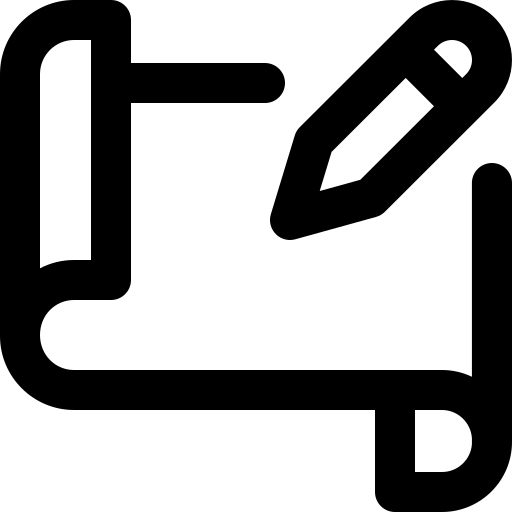
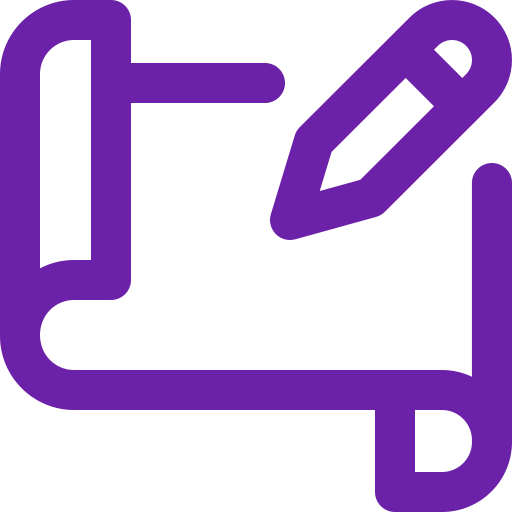
portfolio

diff --git a/pages/skills.js b/pages/skills.js
@@ -1,7 +1,115 @@
-export default function Skills(){
-    return(
-        <div>
-            <h1>This is Skills</h1>
+import Image from 'next/image'
+export default function Skills() {
+    return (
+        <div className='bg-slate-100'>
+            <div className=' pt-10 font-body flex justify-center'>
+                <div className='w-[90vw] md:w-[72vw]'>
+                    <div className='flex flex-col items-center'>
+                        <h1 className='mb-6 text-3xl font-semibold'>Skills</h1>
+                        <p className='font-light mb-6'>Tools I have worked with.</p>
+                    </div>
+                    <div className='grid grid-cols-2 gap-4 md:grid-cols-5 md:gap-4'>
+                        <div className='bg-white rounded-xl p-5 border-solid border border-purple-300 flex flex-col items-center'>
+                            <Image src="/bootstrap.png" alt="bootstrap" className='object-contain' height={50} width={50} />
+                            <div className='mt-4'>Bootstrap</div>
+                        </div>
+                        <div className='bg-white rounded-xl p-5  border-solid border border-purple-300 flex flex-col items-center'>
+                            <Image src="/css-3.png" alt="css3" className='object-contain' height={50} width={50} />
+                            <div className='mt-4'>Css3</div>
+                        </div>
+                        <div className='bg-white rounded-xl p-5  border-solid border border-purple-300 flex flex-col items-center'>
+                            <Image src="/docker.png" alt="docker" className='object-contain' height={50} width={50} />
+                            <div className='mt-4'>Docker</div>
+                        </div>
+                        <div className='bg-white rounded-xl p-5 border-solid border border-purple-300 flex flex-col items-center'>
+                            <Image src="/figma.png" alt="figma" className='object-contain' height={50} width={50} />
+                            <div className='mt-4'>Figma</div>
+                        </div>
+                        <div className='bg-white rounded-xl p-5 border-solid border border-purple-300 flex flex-col items-center'>
+                            <Image src="/git.png" alt="git" className='object-contain' height={50} width={50} />
+                            <div className='mt-4'>Git</div>
+                        </div>
+                        <div className='bg-white rounded-xl p-5 border-solid border border-purple-300 flex flex-col items-center'>
+                            <Image src="/github.png" alt="github" height={50} width={50} />
+                            <div className='mt-4'>Github</div>
+                        </div>
+                        <div className='bg-white rounded-xl p-5  border-solid border border-purple-300 flex flex-col items-center'>
+                            <Image src="/gitlab.jpeg" alt="gitlab" height={50} width={50} />
+                            <div className='mt-4'>Gitlab</div>
+                        </div>
+                        <div className='bg-white rounded-xl p-5  border-solid border border-purple-300 flex flex-col items-center'>
+                            <Image src="/heroku.png" alt="heroku" height={50} width={50} />
+                            <div className='mt-4'>BootStrap</div>
+                        </div>
+                        <div className='bg-white rounded-xl p-5 border-solid border border-purple-300 flex flex-col items-center'>
+                            <Image src="/java.png" alt="java" height={50} width={50} />
+                            <div className='mt-4'>Java</div>
+                        </div>
+                        <div className='bg-white rounded-xl p-5  border-solid border border-purple-300 flex flex-col items-center'>
+                            <Image src="/js.png" alt="js" height={50} width={50} />
+                            <div className='mt-4'>Javascript</div>
+                        </div>
+                        <div className='bg-white rounded-xl p-5  border-solid border border-purple-300 flex flex-col items-center'>
+                            <Image src="/mysql.png" alt="mysql" height={50} width={50} />
+                            <div className='mt-4'>MySql</div>
+                        </div>
+                        <div className='bg-white rounded-xl p-5 border-solid border border-purple-300 flex flex-col items-center'>
+                            <Image src="/netlify.png" alt="netlify" height={50} width={50} />
+                            <div className='mt-4'>Netlify</div>
+                        </div>
+                        <div className='bg-white rounded-xl p-5  border-solid border border-purple-300 flex flex-col items-center'>
+                            <Image src="/nextjs.png" alt="nextjs" height={50} width={50} />
+                            <div className='mt-4'>Next</div>
+                        </div>
+                        <div className='bg-white rounded-xl p-5 border-solid border border-purple-300 flex flex-col items-center'>
+                            <Image src="/react.png" alt="react" height={50} width={50} />
+                            <div className='mt-4'>React</div>
+                        </div>
+                        <div className='bg-white rounded-xl p-5  border-solid border border-purple-300 flex flex-col items-center' flex flex-col items-center>
+                            <Image src="/vuejs.png" alt="vuejs" height={50} width={50} />
+                            <div className='mt-4'>Vue</div>
+                        </div>
+                    </div>
+
+                    <div className='flex justify-center mt-10 mb-10 text-xl font-semibold'>
+                        <div>For something more tangible, take a look at my projects.</div>
+                    </div>
+                </div>
+
+            </div>
+            <div className='bg-purple-300 pt-1 pb-5'>
+                <div className='flex justify-center mt-5 mb-5'>
+                    <div className='text-3xl font-semibold'> What That Means</div>
+                </div>
+                <div className='flex justify-center'>
+                <div className='w-[90vw] grid md:grid-cols-2 gap-3'>
+                    <div>
+                        <div className='bg-white rounded-md p-3 text-center'>Enjoy using regular CSS, along with frameworks TailWind and Bootstrap.</div>
+                    </div>
+                    <div>
+                        <div className='bg-white rounded-md p-3 text-center'>Knows how to filter data on a template, JavaScript and queryset level.</div>
+                    </div>
+                    <div>
+                        <div className='bg-white rounded-md p-3 text-center'>Can produce websites, from wireframing, prototyping to deploying production.</div>
+                    </div>
+                    <div>
+                        <div className='bg-white rounded-md p-3 text-center'>Working JavaScript, including React (with Nextjs) and Vue.</div>
+                    </div>
+                    <div>
+                        <div className='bg-white rounded-md p-3 text-center'>I can work with APIs, creating my own and using external ones.</div>
+                    </div>
+                    <div>
+                        <div className='bg-white rounded-md p-3 text-center'>Creates websites with mobile thinking first.</div>
+                    </div>
+                    <div>
+                        <div className='bg-white rounded-md p-3 text-center'>Key knowledge and implementation of CRUD functionality.</div>
+                    </div>
+                    <div>
+                        <div className='bg-white rounded-md p-3 text-center'>Can build back-end authorization with token authentication.</div>
+                    </div>
+                </div>
+                </div>
+            </div>
         </div>
     )
 }

diff --git a/pages/index.js b/pages/index.js
@@ -10,30 +10,30 @@ export default function Home() {
         <meta name="description" content="Generated by create next app" />
         <link rel="icon" href="/favicon.ico" />
       </Head>
-      <div className="bg-slate-100">
-        <div className="">
-          <div>
-            <Image src="/Adewole.jpg" alt="Logo" width={200} height={100} />
+      <div className="bg-slate-100 pt-10 h-screen">
+        <div className="flex flex-col items-center">
+          <div className="mb-4">
+            <Image className="rounded-2xl object-cover" src="/Adewole.jpg" alt="Logo" width={200} height={200} />
           </div>
-          <h2>David Adewole</h2>
-          <p>Developer Portfolio</p>
-          <p>
+          <h2 className="mb-4 text-3xl font-bold">David Adewole</h2>
+          <p className="mb-4 font-thin">Developer Portfolio</p>
+          <p className="font-medium text-lg pl-3 pr-3">
             Hi I&apos;m David. I&apos;m a Nigerian developer who loves to solve
             problems through programming and learning new things.
           </p>
         </div>
-        <div>
+        <div className="flex mt-16 w-4/5 justify-around ml-12 md:ml-24">
           <div>
-            <Image src="/project.png" alt="Logo" width={200} height={100} />
-            <p>Projects</p>
+            <Image className="object-cover" src="/project.png" alt="Logo" width={50} height={50} />
+            <p className="mt-4 text-purple-800 text-lg font-semibold">Projects</p>
           </div>
           <div>
-            <Image src="/github-logo.png" alt="Logo" width={200} height={100} />
-            <p>Github</p>
+            <Image className="object-cover" src="/github.png" alt="Logo" width={50} height={50} />
+            <p className="mt-4 text-purple-800 text-lg font-semibold">Github</p>
           </div>
           <div>
-            <Image src="/skills.png" alt="Logo" width={200} height={100} />
-            <p>Skills</p>
+            <Image className="object-cover"  src="/skills.png" alt="Logo" width={50} height={50} />
+            <p className="mt-4 text-purple-800 text-lg font-semibold">Skills</p>
           </div>
         </div>
       </div>

diff --git a/components/Navbar.js b/components/Navbar.js
@@ -29,7 +29,7 @@ export default function Navbar() {
 
 
     return (
-        <nav className="font-body mr-4 md:mx-48 text-right">
+        <nav className="font-body mr-4 md:mx-48">
             <div className="flex justify-end items-center p-4 md:hidden">
                 <div id="burger">
                     <svg
@@ -54,16 +54,16 @@ export default function Navbar() {
             <ul className="hidden md:block" id="menu">
              
                 <div className="flex flex-col items-center uppercase text-purple-800 md:flex-row md:justify-between md:items-center md:p-2">
-                    <li className="hover:text-white hover:bg-purple-800 p-2 mb-2 md:mb-0 text-lg">
+                    <li className="hover:text-white hover:bg-purple-800 p-2 mb-2 md:mb-0 text-lg font-semibold">
                         <Link href="/">Home</Link>
                     </li>
-                    <li className=" hover:text-white hover:bg-purple-800 p-2 mb-2 md:mb-0 text-lg">
+                    <li className=" hover:text-white hover:bg-purple-800 p-2 mb-2 md:mb-0 text-lg font-semibold">
                         <Link href="/projects">Projects</Link>
                     </li>
-                    <li className="hover:text-white hover:bg-purple-800 p-2 mb-2 md:mb-0 text-lg">
+                    <li className="hover:text-white hover:bg-purple-800 p-2 mb-2 md:mb-0 text-lg font-semibold">
                         <Link href="/skills">Skills</Link>
                     </li>
-                    <li className="hover:text-white hover:bg-purple-800 p-2 mb-2 md:mb-0 text-lg">
+                    <li className="hover:text-white hover:bg-purple-800 p-2 mb-2 md:mb-0 text-lg font-semibold">
                         <Link href="/contact">Contact</Link>
                     </li>
                 </div>

diff --git a/tailwind.config.js b/tailwind.config.js
@@ -8,8 +8,9 @@ module.exports = {
       fontFamily:{
         body:['Nunito']
       },
-      width:{
-        '80':'80vw'
+      spacing:{
+        '72':'72vw',
+        '90': '90vw'
       }
     },
   },
